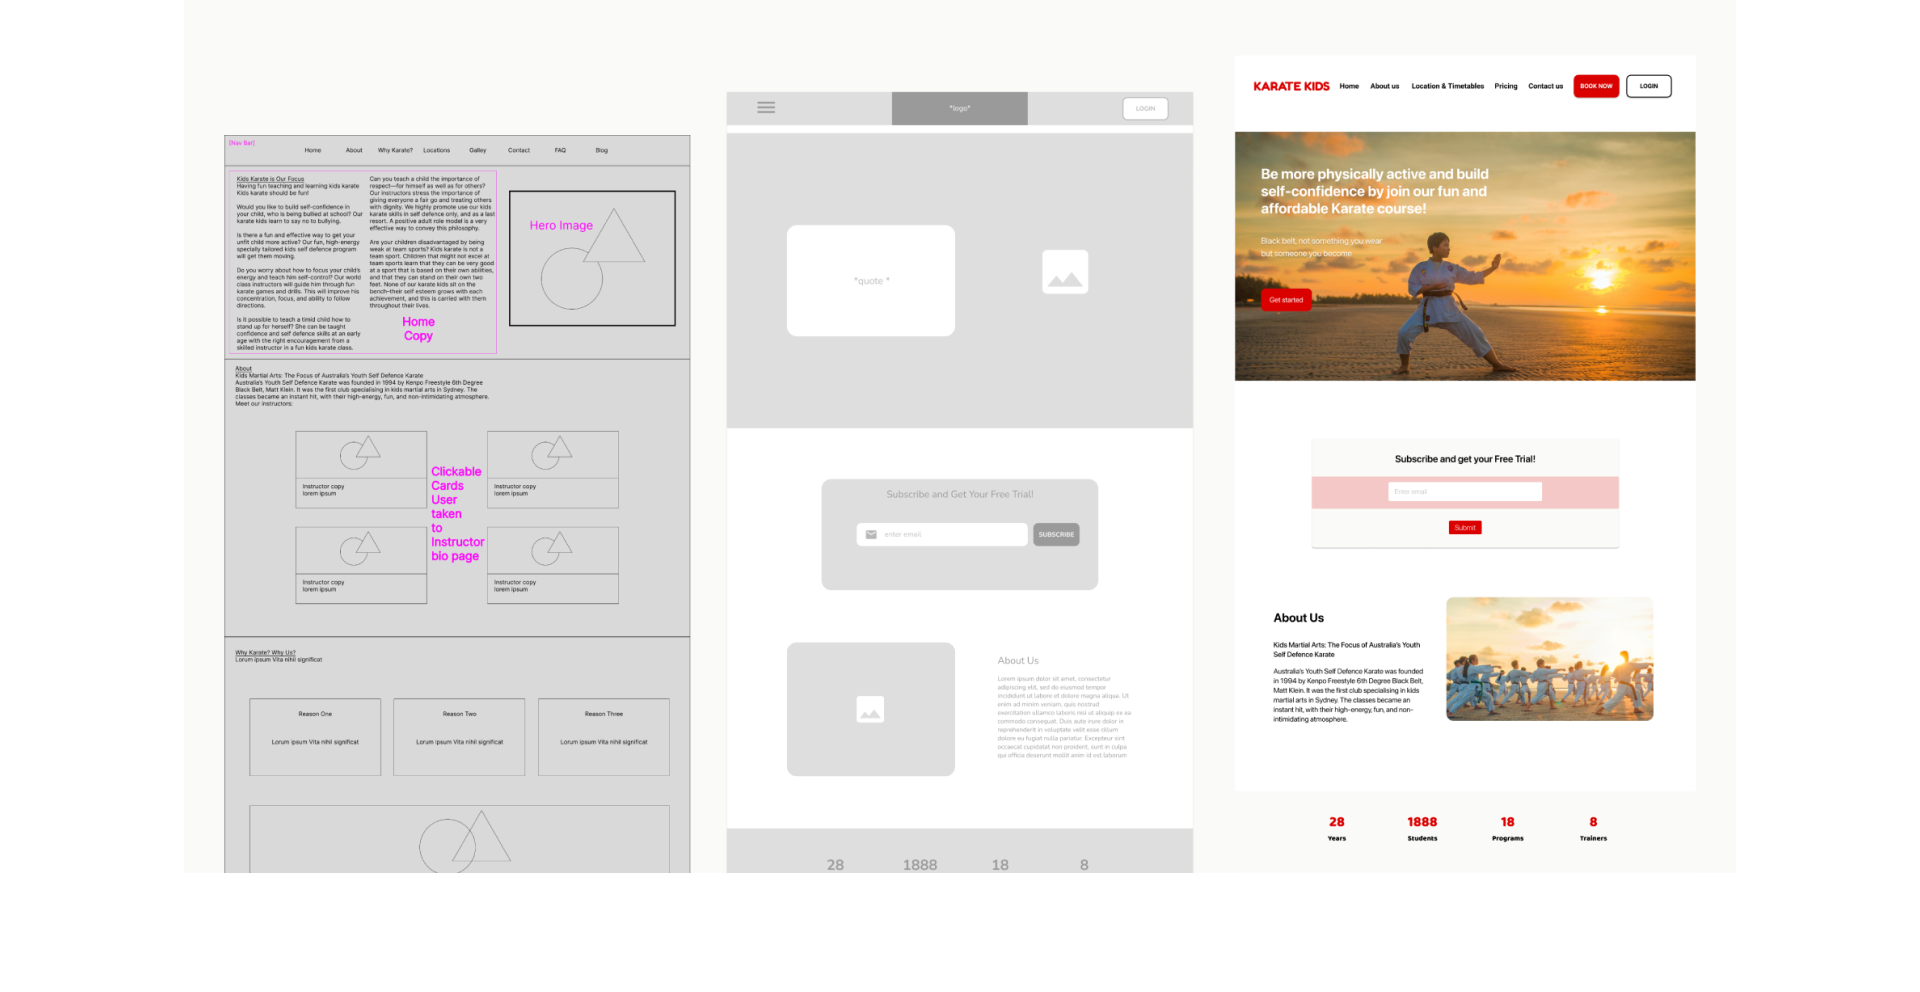
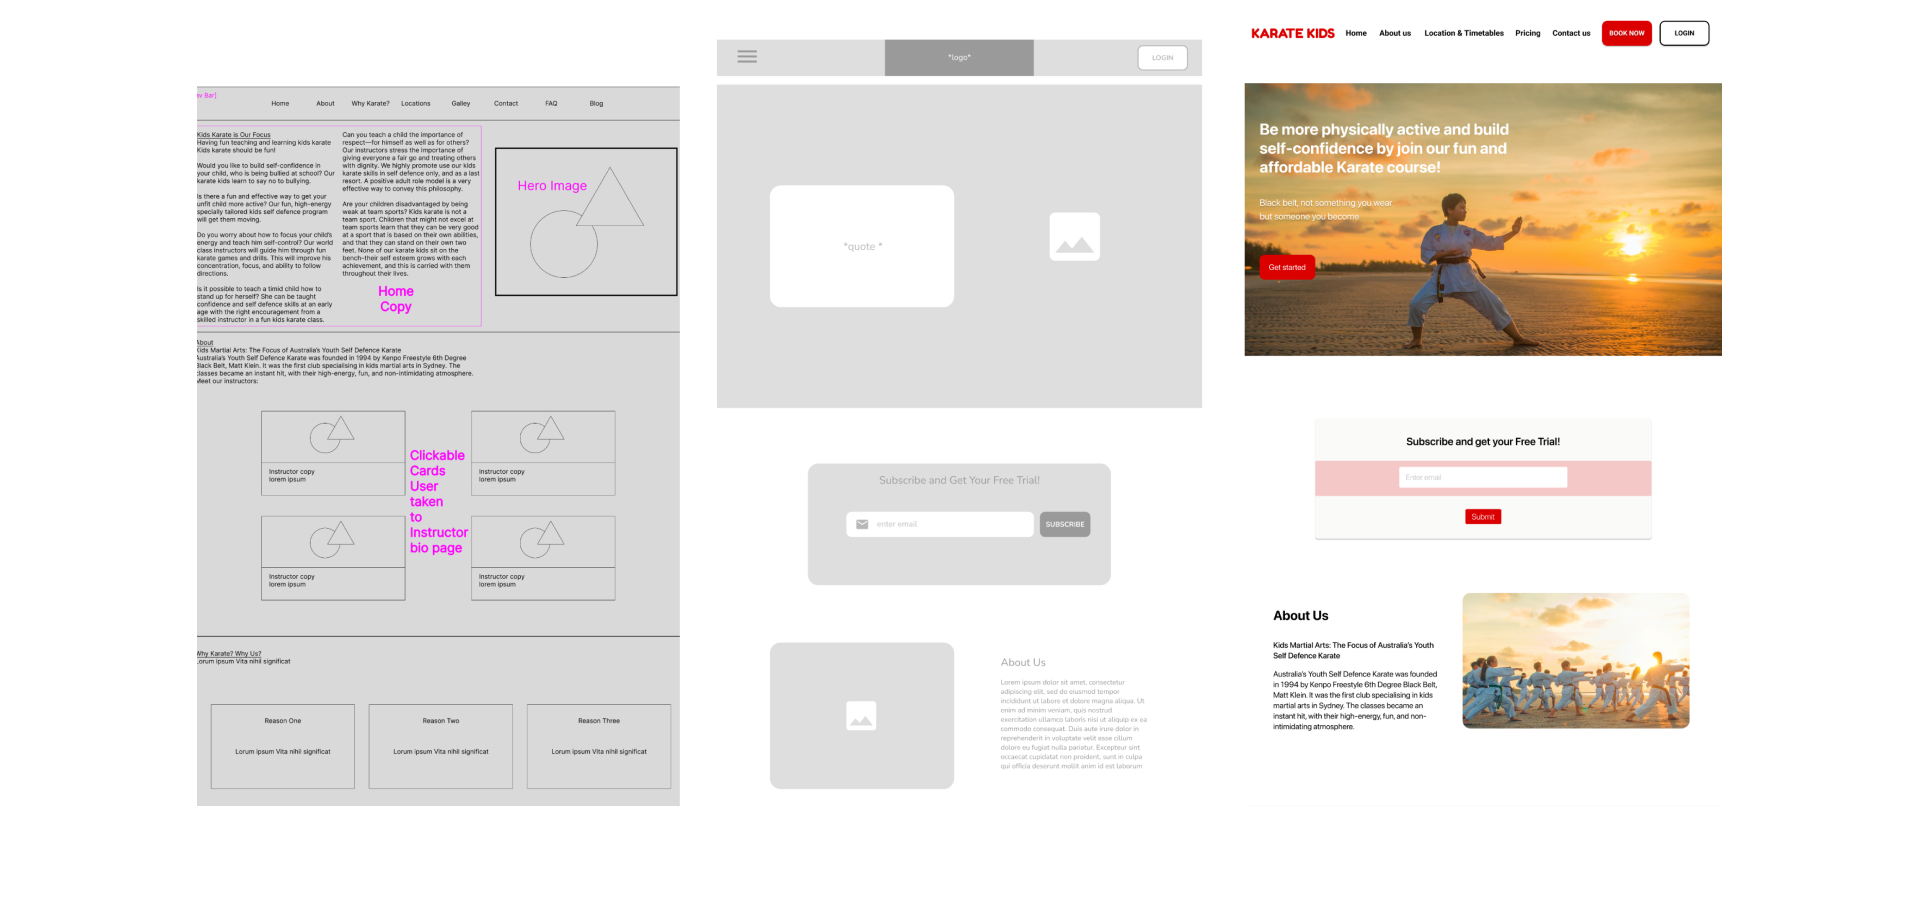
updating

diff --git a/gov.html b/gov.html
@@ -66,24 +66,22 @@
         <div class="row justify-content-center">
 
           <div class="col-md-5 col-lg-3">
-            <img src="assets/img/group2.png" alt="About" data-aos="zoom-in" data-aos-delay="100">
+            <img src="assets/img/kk/1.png" alt="About" data-aos="zoom-in" data-aos-delay="100">
           </div>
 
           <div class="col-md-7 col-lg-5">
             <div class="about-content" data-aos="fade-left" data-aos-delay="100">
 
-              <h2><span>The Animal Rehoming Service</span>UX/UI ReDesign</h2>
+              <h2><span>Karate Kids</span><br>UX/UI ReDesign</h2>
               
-              <p>The Animal Rehoming Service (TARS) is a registered not-for-profit organisation which acts as a mediator between people looking to rehome their animal and those looking to adopt. As TARS's website is
-                significantly outdated and in desperate need
-                of a facelift. This project is to assist TARS in building a clean and professional interface of its website and app.
+              <p>Karate Kids is a karate school that provides different level of karate classes, while encouraging the next generation to be active, peaceful and considerate people. 
               </p>
 
               <ul class="list-unstyled">
                 <li><i class="vi bi-chevron-right"></i>Group project</li>
                 <li><i class="vi bi-chevron-right"></i>Brand look/feel</li>
-                <li><i class="vi bi-chevron-right"></i>Information architecture</li>
-                <li><i class="vi bi-chevron-right"></i>From-scratch prototyping</li>
+                <li><i class="vi bi-chevron-right"></i>Booking UX flows</li>
+                <li><i class="vi bi-chevron-right"></i>Responsive web design</li>
                 
               </ul>
 
@@ -102,41 +100,38 @@
       <div class="container" data-aos="fade-up">
         <div class="section-title text-center">
           <h2>Define</h2>
-          <p>According to our user interviews and
-            competitor analysis, we found out
-            that users would be less likely to adopt from an outdated website, or a website that they determined as being poorly designed and lack of information. Around 66% of users want the ability to apply for adoption online. The typical user of TARS website is who wants to find a new companion to
-            enrich her children's lives but 
-            needs accurate information to make the right decision. The users would like the website brand to be trustworthy and they usually get frustrated if the procedure of adoption/fostering is complicated. </p>
+          <p>During our research we found that users become stressed when trying to organise after school activities. When looking at a website parents expect clear navigation and easy access to information. We also found that users are more willing to trust a website that looks professional and up to date.
+          How might we increase the motivation for children to join karate, while implementing a smooth booking online system for busy parents? </p>
         </div>
 
         <div class="row" data-aos="fade-up" data-aos-delay="100">
 
           
-              <img src="assets/img/21.png" alt="img">
+              <img src="assets/img/kk/k1.png" alt="img">
             
           </div>
 
           <div class="container" data-aos="fade-up">
             <div class="section-title text-center">
               <h2>Ideate</h2>
-              <p>Users value information. Potential adopters want access to as much information as possible, upfront, about their potential new pet. Hence, our solutions are to provide all the information users need to make an adoption decision online,
-                as well as removing deterrents to adoption and donation by allowing users to complete the process online and providing easily accessible contact details. “How might we assist TARS in achieving their goal of helping pets in need find their forever homes.”
-                Our goals are to increase accessibility,
-                reduce roadblocks and to have 
-                fast track processes by our restructured user flow.</p>
+              <p>On the original website, users are likely to feel lost looking for a timetable to book in classes and spends considerate amount of time scrolling through text, they also struggle to find the information they need.
+
+                From the Heuristic Evaluation, we concluded that we need an overall brand update and site navigation cleanup. Our main task is to have a simple and intuitive online class booking process in place.
+                </p>
             </div>
     
             <div class="row" data-aos="fade-up" data-aos-delay="100">
     
               
-                  <img src="assets/img/22.png" alt="img">
+                  <img src="assets/img/kk/k2.png" alt="img">
+                  
                 
               </div>
 
               <div class="container" data-aos="fade-up">
                 <div class="section-title text-center">
                   <h2>Design</h2>
-                  <p>To ensure that TARS is consistently presented as a lovely, warm, and welcoming brand, a UI Style Guide was meticulously developed. This guide outlines the design principles and visual elements that embody TARS, such as its iconic logo, a color scheme that evokes feelings of comfort and familiarity, and the typography that is distinctive. By adhering to these guidelines, TARS can establish a cohesive and engaging visual identity that resonates with its target audience, and creates a memorable and lasting impression on users.
+                  <p>To ensure that Karate Kids is consistently presented as a energetic brand, a UI Style Guide was meticulously developed. This guide outlines the design principles and visual elements that embody Karate Kids, such as its iconic logo, a color scheme that demonstrates different belt classes, and the typography that is legible and professional.
                   </p>
                 </div>
         
@@ -144,7 +139,7 @@
         
                   
                   
-                      <img src="assets/img/231.png" alt="img">
+                      <img src="assets/img/kk/k3.png" alt="img">
                     
                   </div>
 
@@ -157,11 +152,10 @@
                     <div class="row" data-aos="fade-up" data-aos-delay="100">
         
                   
-                      <img src="assets/img/24.png" alt="img">
-                      <img src="assets/img/241.png" alt="img">
-                      <img src="assets/img/242.png" alt="img">
-                      <img src="assets/img/243.png" alt="img">
-                      <img src="assets/img/23.png" alt="img">
+                      <img src="assets/img/kk/k4.png" alt="img">
+                      <img src="assets/img/kk/k5.png" alt="img">
+                      <img src="assets/img/kk/k6.png" alt="img">
+                      
                     
                   </div>
                  
@@ -178,18 +172,20 @@
                       
 
    <!-- ======= Video Section ======= -->
-    <section id="video" class="text-center">
+    <section id="videoo" class="text-center">
      
       <div class="overlay">
         <div class="container-fluid container-full" data-aos="zoom-in">
           
           <div class="row">
-            <a href="https://youtu.be/80SA8fh5U5s" class="glightbox play-btn"></a>
+            <a href="https://youtu.be/5DAke7EbnTI" class="glightbox play-btn"></a>
           </div>
 
         </div>
       </div>
     </section><!-- End Video Section -->
+
+  
 
          
 
@@ -281,7 +277,7 @@
         <div class="col-md-12 col-lg-4">
           <div class="footer-logo">
 
-            <a class="navbar-brand" href="#">lorrieLI</a>
+            <a class="navbar-brand" href="index.html">lorrieLI</a>
             <p>Thanks for dropping by!</p>
 
           </div>

diff --git a/assets/css/style.css b/assets/css/style.css
@@ -797,7 +797,7 @@ section {
   overflow: hidden;
 }
 
-#video kk {
+#videoo {
   background: url(../img/kk/vbg.jpg) center center;
   background-repeat: no-repeat;
   background-size: cover;
@@ -810,7 +810,7 @@ section {
   height: 100%;
 }
 
-#video kk .overlay {
+#videoo .overlay {
   background: rgba(244, 251, 243, 0.85);
   height: 100%;
 }
@@ -826,7 +826,7 @@ section {
   overflow: hidden;
 }
 
-#video kk .overlay .play-btn {
+#videoo .overlay .play-btn {
   width: 94px;
   height: 94px;
   background: radial-gradient(#71c55d 50%, rgba(113, 197, 93, 0.15) 52%);
@@ -838,6 +838,22 @@ section {
 }
 
 #video .overlay .play-btn::after {
+  content: "";
+  position: absolute;
+  left: 50%;
+  top: 50%;
+  transform: translateX(-40%) translateY(-50%);
+  width: 0;
+  height: 0;
+  border-top: 10px solid transparent;
+  border-bottom: 10px solid transparent;
+  border-left: 15px solid #fff;
+  z-index: 100;
+  transition: all 400ms cubic-bezier(0.55, 0.055, 0.675, 0.19);
+
+}
+
+#videoo .overlay .play-btn::after {
   content: "";
   position: absolute;
   left: 50%;
@@ -875,7 +891,35 @@ section {
   background: rgba(198, 16, 0, 0);
 }
 
+#videoo .overlay .play-btn:before {
+  content: "";
+  position: absolute;
+  width: 120px;
+  height: 120px;
+  -webkit-animation-delay: 0s;
+  animation-delay: 0s;
+  -webkit-animation: pulsate1 2s;
+  animation: pulsate1 2s;
+  -webkit-animation-direction: forwards;
+  animation-direction: forwards;
+  -webkit-animation-iteration-count: infinite;
+  animation-iteration-count: infinite;
+  -webkit-animation-timing-function: steps;
+  animation-timing-function: steps;
+  opacity: 1;
+  border-radius: 50%;
+  border: 2px solid rgba(255, 255, 255, 0.5);
+  top: -15%;
+  left: -15%;
+  background: rgba(198, 16, 0, 0);
+}
+
 #video .overlay .play-btn:hover::after {
+  border-left: 15px solid #71c55d;
+  transform: scale(20);
+}
+
+#videoo .overlay .play-btn:hover::after {
   border-left: 15px solid #71c55d;
   transform: scale(20);
 }
@@ -898,6 +942,23 @@ section {
   border-radius: 0;
 }
 
+#videoo .overlay .play-btn:hover::before {
+  content: "";
+  position: absolute;
+  left: 50%;
+  top: 50%;
+  transform: translateX(-40%) translateY(-50%);
+  width: 0;
+  height: 0;
+  border: none;
+  border-top: 10px solid transparent;
+  border-bottom: 10px solid transparent;
+  border-left: 15px solid #fff;
+  z-index: 200;
+  -webkit-animation: none;
+  animation: none;
+  border-radius: 0;
+}
 @-webkit-keyframes pulsate1 {
   0% {
     transform: scale(0.6, 0.6);

diff --git a/kk.html b/kk.html
@@ -172,7 +172,7 @@
                       
 
    <!-- ======= Video Section ======= -->
-    <section id="video kk" class="text-center">
+    <section id="videoo" class="text-center">
      
       <div class="overlay">
         <div class="container-fluid container-full" data-aos="zoom-in">
@@ -277,7 +277,7 @@
         <div class="col-md-12 col-lg-4">
           <div class="footer-logo">
 
-            <a class="navbar-brand" href="#">lorrieLI</a>
+            <a class="navbar-brand" href="index.html">lorrieLI</a>
             <p>Thanks for dropping by!</p>
 
           </div>

diff --git a/index.html b/index.html
@@ -45,7 +45,7 @@
         <ul>
           <li><a class="nav-link scrollto active" href="#hero">Home</a></li>
           <li><a class="nav-link scrollto" href="#about-us">Portfolio</a></li>
-          <li><a class="nav-link scrollto" href="#features">Resume</a></li>
+          <li><a class="nav-link scrollto" href="https://drive.google.com/drive/folders/1ExdbzxDAYpoJ8HwvnDq83cuktfq-9Z-N?usp=sharing">Resume</a></li>
           <li><a class="nav-link scrollto" href="#contact">Contact</a></li>
         </ul>
         <i class="bi bi-list mobile-nav-toggle"></i>

diff --git a/two.html b/two.html
@@ -281,7 +281,7 @@
         <div class="col-md-12 col-lg-4">
           <div class="footer-logo">
 
-            <a class="navbar-brand" href="#">lorrieLI</a>
+            <a class="navbar-brand" href="index.html">lorrieLI</a>
             <p>Thanks for dropping by!</p>
 
           </div>
